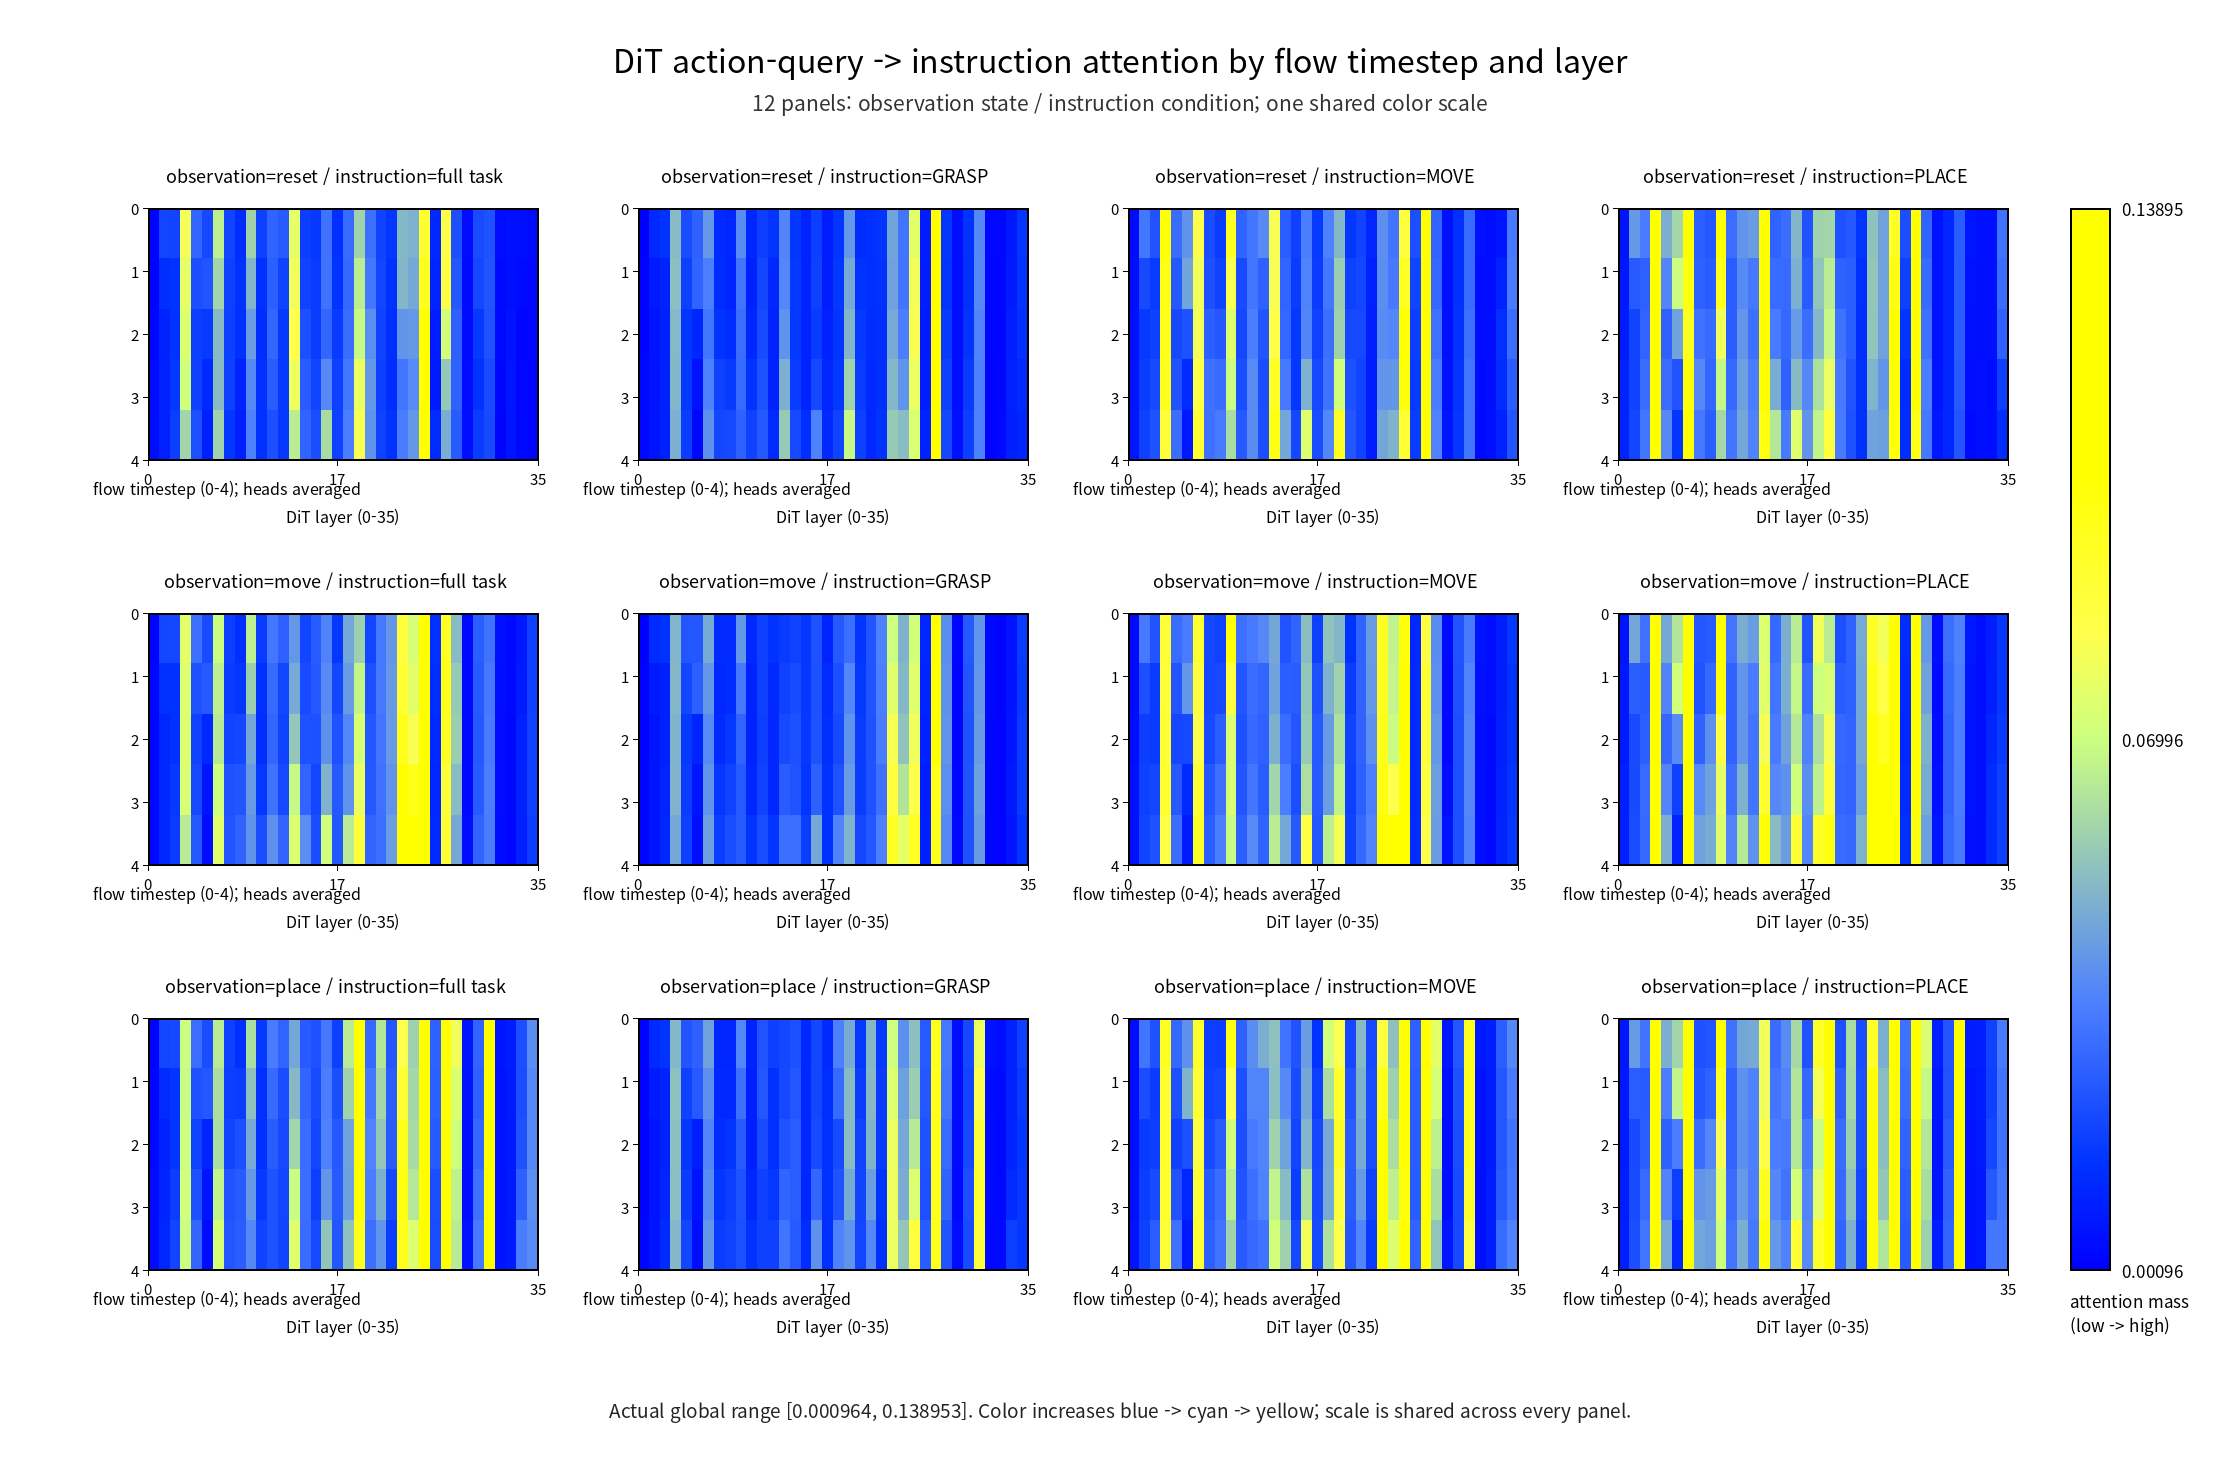
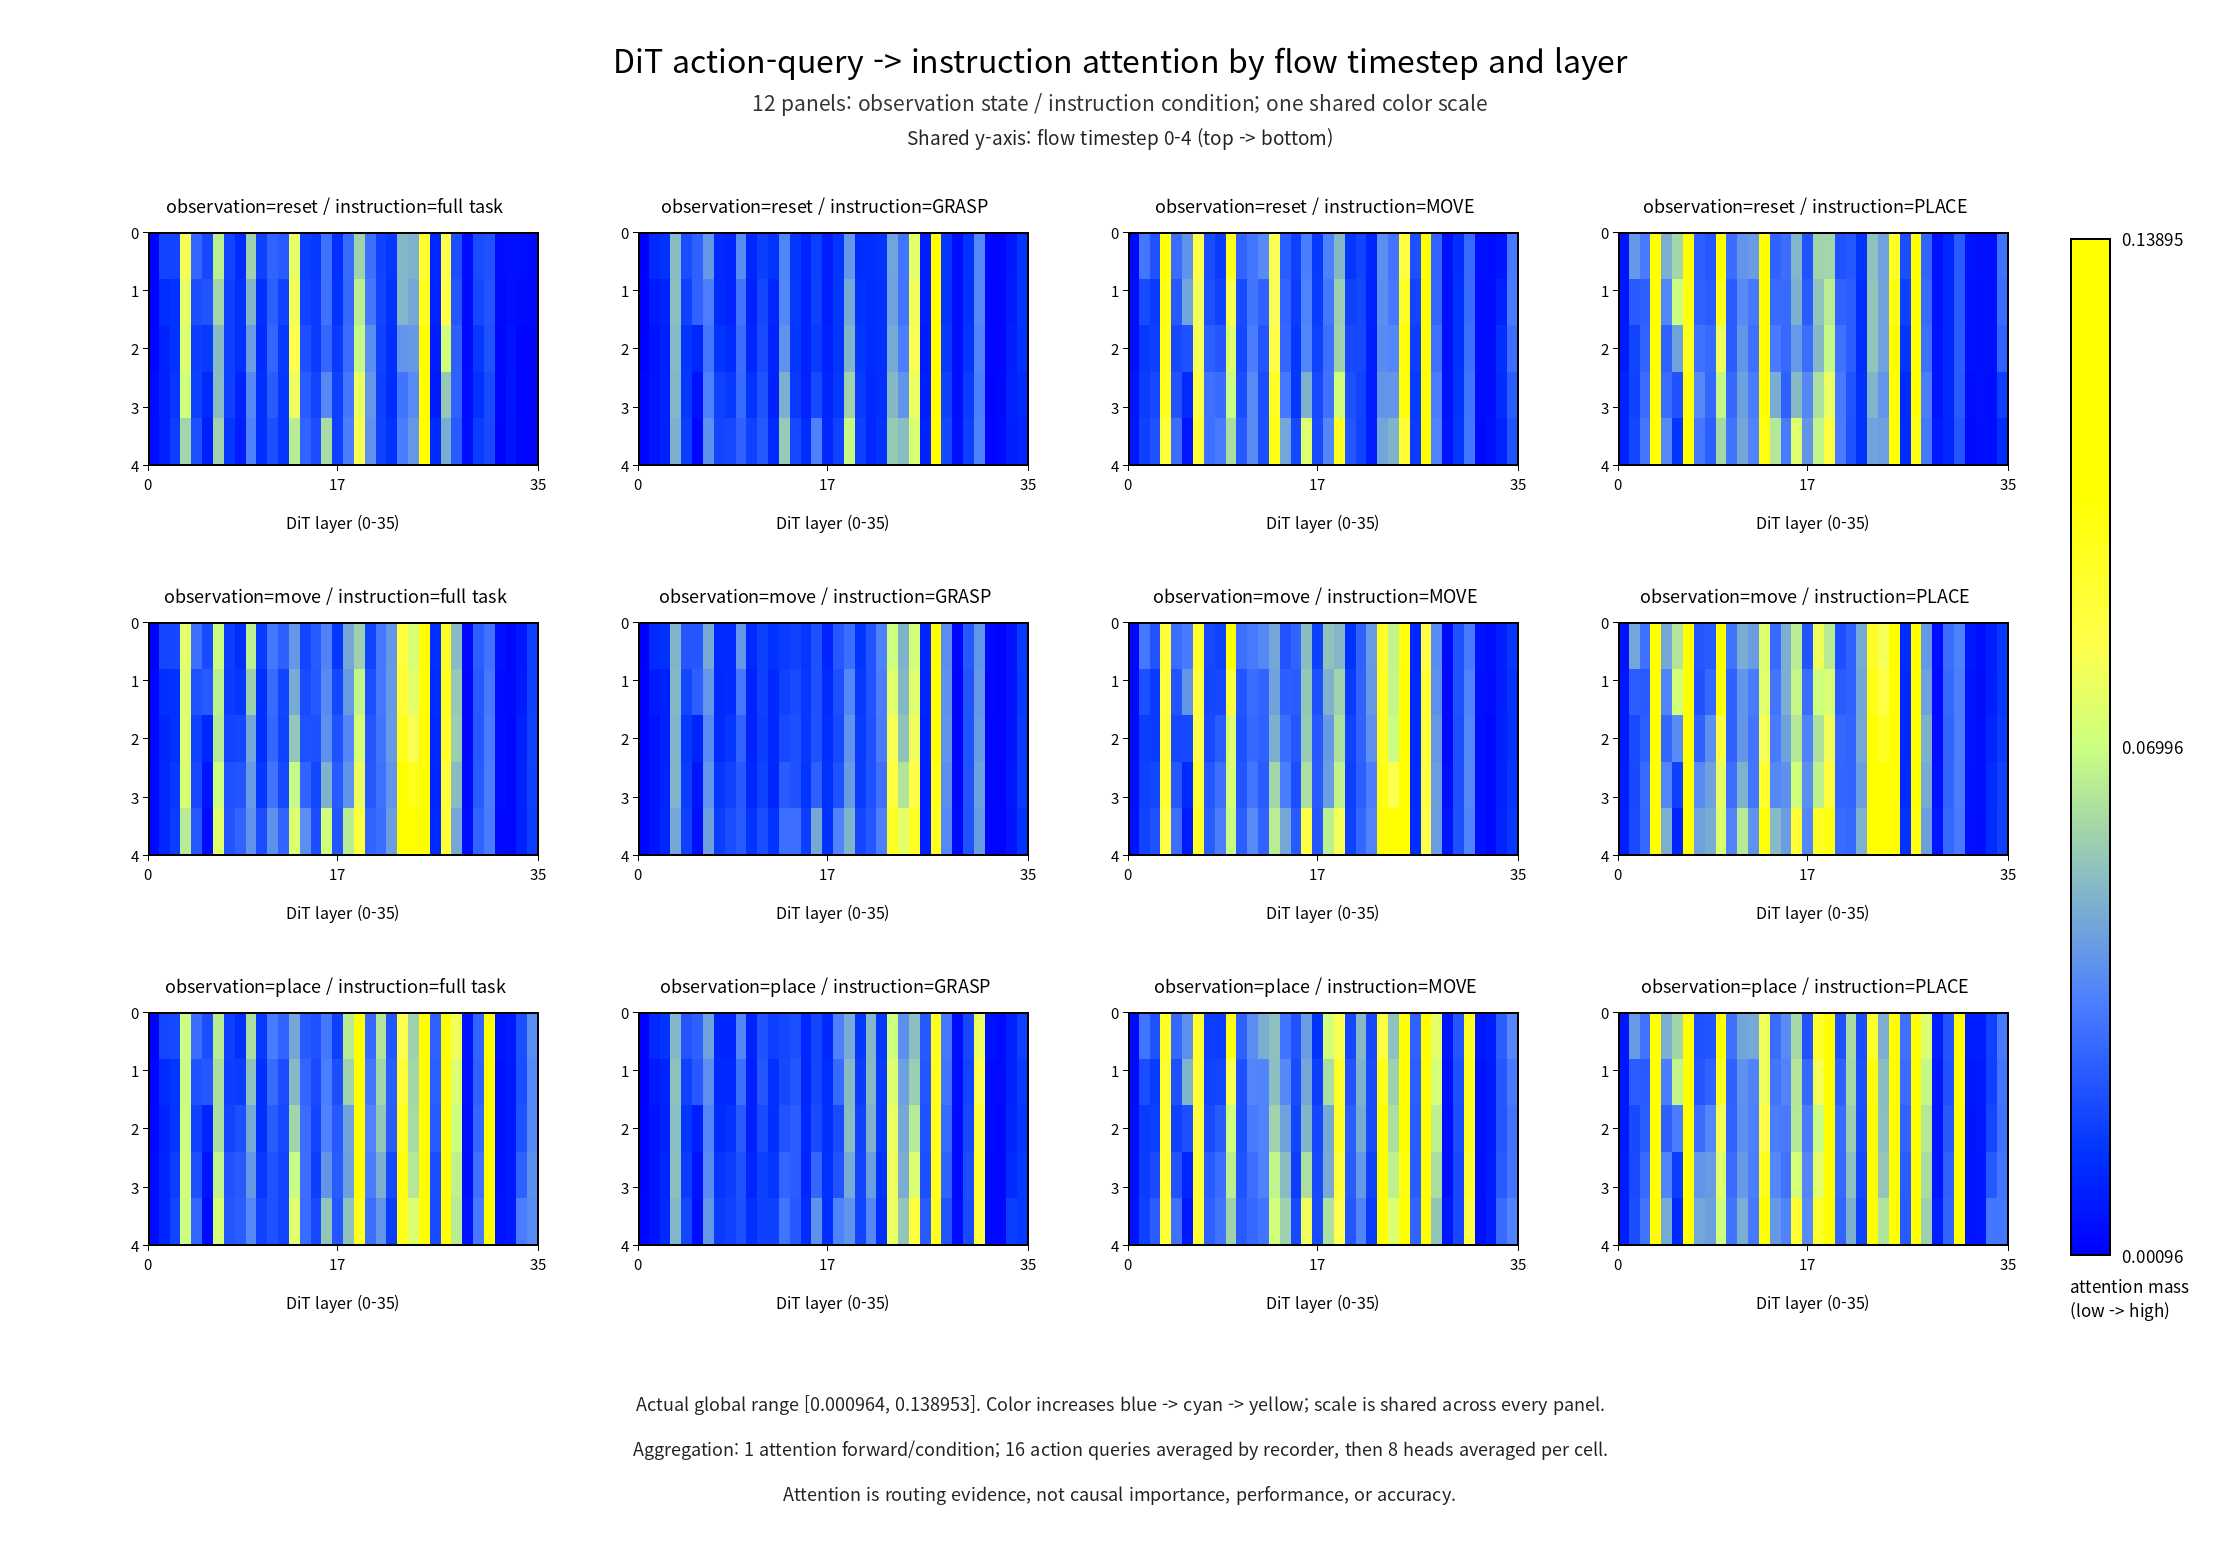
fix(experiment): finalize attention plot annotations

diff --git a/experiments/instr_attend_t_8cd8d8c0/internal_attention/analyze_internal_attention.py b/experiments/instr_attend_t_8cd8d8c0/internal_attention/analyze_internal_attention.py
@@ -19,6 +19,28 @@ LABEL_DISPLAY = {
     "skill_move": "MOVE",
     "skill_place": "PLACE",
 }
+ATTENTION_CAVEAT = (
+    "Attention is routing evidence, not causal importance, performance, or accuracy."
+)
+HEATMAP_AGGREGATION = {
+    "layer_timestep": (
+        "1 attention forward/condition; 16 action queries averaged by recorder, "
+        "then 8 heads averaged per cell."
+    ),
+    "layer_head": (
+        "1 attention forward/condition; 16 action queries averaged by recorder, "
+        "then 5 flow timesteps averaged per cell."
+    ),
+    "vlm_layer_head": (
+        "1 attention forward/condition; image-key mass summed, then instruction-query "
+        "positions averaged per cell."
+    ),
+}
+SCATTER_LABEL_LAYOUT = {
+    ("place", "correct_full"): (-12, -4, "rm"),
+    ("place", "skill_move"): (12, -18, "lm"),
+    ("place", "skill_place"): (-12, -4, "rm"),
+}
 FONT_PATHS = (
     "/usr/share/fonts/opentype/noto/NotoSansCJK-Regular.ttc",
     "/usr/share/fonts/truetype/dejavu/DejaVuSans.ttf",
@@ -184,14 +206,15 @@ def panel_heatmaps(
     path: Path,
     title: str,
     x_label: str,
-    y_label: str,
+    shared_y_caption: str,
+    aggregation_caption: str,
 ) -> None:
     panels = [reducer(record["arrays"][array_key]) for record in records]
     low = min(float(panel.min()) for panel in panels)
     high = max(float(panel.max()) for panel in panels)
-    width, height = 2240, 1460
-    grid_left, grid_top = 90, 150
-    panel_w, panel_h = 490, 405
+    width, height = 2240, 1550
+    grid_left, grid_top = 90, 180
+    panel_w, panel_h = 490, 390
     canvas = Image.new("RGB", (width, height), "white")
     draw = ImageDraw.Draw(canvas)
     draw.text((width // 2, 35), title, fill="black", font=font(32), anchor="ma")
@@ -202,12 +225,19 @@ def panel_heatmaps(
         font=font(21),
         anchor="ma",
     )
+    draw.text(
+        (width // 2, 122),
+        f"Shared y-axis: {shared_y_caption}",
+        fill="#222222",
+        font=font(19),
+        anchor="ma",
+    )
     for record, values in zip(records, panels):
         row = STATES.index(record["state"])
         col = LABELS.index(record["label"])
         x = grid_left + col * panel_w
         y = grid_top + row * panel_h
-        box = (x + 58, y + 58, x + 448, y + 310)
+        box = (x + 58, y + 52, x + 448, y + 285)
         heatmap = colorize(values, low, high).resize(
             (box[2] - box[0], box[3] - box[1]), Image.Resampling.NEAREST
         )
@@ -225,8 +255,7 @@ def panel_heatmaps(
         x_ticks = sorted(set([0, x_max // 2, x_max]))
         y_ticks = list(range(values.shape[0])) if values.shape[0] <= 8 else [0, y_max // 2, y_max]
         draw_ticks(draw, box, x_ticks, x_max, y_ticks, y_max)
-        draw.text((box[0] + (box[2] - box[0]) // 2, y + 354), x_label, fill="black", font=font(16), anchor="ma")
-        draw.text((x + 3, y + 326), y_label, fill="black", font=font(16))
+        draw.text((box[0] + (box[2] - box[0]) // 2, y + 330), x_label, fill="black", font=font(16), anchor="ma")
 
     color_left, color_top, color_right, color_bottom = 2070, grid_top + 58, 2110, grid_top + 3 * panel_h - 95
     gradient = np.linspace(high, low, color_bottom - color_top, dtype=np.float32)[:, None]
@@ -238,10 +267,24 @@ def panel_heatmaps(
     draw.text((color_right + 12, color_bottom), f"{low:.5f}", fill="black", font=font(17), anchor="lm")
     draw.text((2070, color_bottom + 18), "attention mass\n(low -> high)", fill="black", font=font(17), spacing=4)
     draw.text(
-        (width // 2, 1395),
+        (width // 2, 1390),
         f"Actual global range [{low:.6f}, {high:.6f}]. Color increases blue -> cyan -> yellow; scale is shared across every panel.",
         fill="#222222",
-        font=font(19),
+        font=font(18),
+        anchor="ma",
+    )
+    draw.text(
+        (width // 2, 1435),
+        f"Aggregation: {aggregation_caption}",
+        fill="#222222",
+        font=font(18),
+        anchor="ma",
+    )
+    draw.text(
+        (width // 2, 1480),
+        ATTENTION_CAVEAT,
+        fill="#222222",
+        font=font(18),
         anchor="ma",
     )
     canvas.save(path)
@@ -255,7 +298,8 @@ def plot_layer_timestep(records: list[dict], out: Path) -> None:
         out / "action_instruction_layer_timestep.png",
         "DiT action-query -> instruction attention by flow timestep and layer",
         "DiT layer (0-35)",
-        "flow timestep (0-4); heads averaged",
+        "flow timestep 0-4 (top -> bottom)",
+        HEATMAP_AGGREGATION["layer_timestep"],
     )
 
 
@@ -267,7 +311,8 @@ def plot_layer_head(records: list[dict], out: Path) -> None:
         out / "action_instruction_layer_head.png",
         "DiT action-query -> instruction attention by head and layer",
         "DiT layer (0-35)",
-        "attention head (0-7); timesteps averaged",
+        "attention head 0-7 (top -> bottom)",
+        HEATMAP_AGGREGATION["layer_head"],
     )
 
 
@@ -279,12 +324,13 @@ def plot_vlm(records: list[dict], out: Path) -> None:
         out / "vlm_instruction_image_layer_head.png",
         "Causal VLM instruction-query -> image-key attention by head and layer",
         "VLM layer (0-35)",
-        "attention head (0-31); instruction queries averaged",
+        "attention head 0-31 (top -> bottom)",
+        HEATMAP_AGGREGATION["vlm_layer_head"],
     )
 
 
 def plot_joint(records: list[dict], out: Path) -> None:
-    width, height = 1900, 820
+    width, height = 2020, 820
     canvas = Image.new("RGB", (width, height), "white")
     draw = ImageDraw.Draw(canvas)
     colors = {"correct_full": "#555555", "skill_grasp": "#0072B2", "skill_move": "#E69F00", "skill_place": "#009E73"}
@@ -293,14 +339,14 @@ def plot_joint(records: list[dict], out: Path) -> None:
     xmin, xmax = min(xs), max(xs)
     ymin, ymax = min(ys), max(ys)
     xmin -= 0.002
-    xmax += 0.002
+    xmax += 0.004
     ymax += 0.6
     plot_ymin = -0.5
     draw.text((width // 2, 28), "Attention routing versus counterfactual action sensitivity", fill="black", font=font(32), anchor="ma")
     draw.text((width // 2, 75), "Panels are observation states; point color is instruction condition; axes and scales are shared", fill="#333333", font=font(20), anchor="ma")
     panel_w, panel_top, panel_bottom = 535, 150, 650
     for state_index, state in enumerate(STATES):
-        left = 95 + state_index * 595
+        left = 95 + state_index * 620
         right = left + panel_w
         draw.rectangle((left, panel_top, right, panel_bottom), outline="black", width=2)
         draw.text(((left + right) // 2, panel_top - 35), f"observation state = {state}", fill="black", font=font(22), anchor="ma")
@@ -319,7 +365,10 @@ def plot_joint(records: list[dict], out: Path) -> None:
             y = panel_bottom - (record["action_effect_size"] - plot_ymin) / (ymax - plot_ymin) * (panel_bottom - panel_top)
             color = colors[record["label"]]
             draw.ellipse((x - 9, y - 9, x + 9, y + 9), fill=color, outline="black", width=1)
-            draw.text((x + 12, y - 4), LABEL_DISPLAY[record["label"]], fill="black", font=font(15), anchor="lm")
+            dx, dy, anchor = SCATTER_LABEL_LAYOUT.get(
+                (state, record["label"]), (12, -4, "lm")
+            )
+            draw.text((x + dx, y + dy), LABEL_DISPLAY[record["label"]], fill="black", font=font(15), anchor=anchor)
     draw.text((width // 2, 735), f"Mean post-softmax DiT action-query -> instruction mass; actual x range [{min(xs):.6f}, {max(xs):.6f}]", fill="black", font=font(19), anchor="ma")
     draw.text((20, 110), f"ES range [{min(ys):.3f}, {max(ys):.3f}]", fill="black", font=font(16))
     draw.text((20, 680), "y: action ES = d_means / (noise_floor / sqrt(N)); dimensionless, not attention", fill="black", font=font(18))

diff --git a/experiments/instr_attend_t_8cd8d8c0/internal_attention/test_analysis_smoke.py b/experiments/instr_attend_t_8cd8d8c0/internal_attention/test_analysis_smoke.py
@@ -11,6 +11,12 @@ from pathlib import Path
 import numpy as np
 from PIL import Image
 
+from analyze_internal_attention import (
+    ATTENTION_CAVEAT,
+    HEATMAP_AGGREGATION,
+    SCATTER_LABEL_LAYOUT,
+)
+
 STATES = ("reset", "move", "place")
 LABELS = ("correct_full", "skill_grasp", "skill_move", "skill_place")
 
@@ -102,6 +108,12 @@ def main() -> None:
         assert guide["aggregation"]["attention_samples_per_condition"] == 1
         assert guide["token_boundaries"]["skill_place"]["action_query_index_range"] == [0, 15]
         assert "attention != causal importance" in guide["caveat"]
+        assert "routing evidence" in ATTENTION_CAVEAT
+        assert "1 attention forward/condition" in HEATMAP_AGGREGATION["layer_timestep"]
+        assert "16 action queries" in HEATMAP_AGGREGATION["layer_head"]
+        assert "instruction-query positions averaged" in HEATMAP_AGGREGATION["vlm_layer_head"]
+        assert SCATTER_LABEL_LAYOUT[("place", "correct_full")] != SCATTER_LABEL_LAYOUT[("place", "skill_move")]
+        assert SCATTER_LABEL_LAYOUT[("place", "skill_place")][2] == "rm"
         expected = {
             "combined_summary.csv",
             "REPORT.ko.md",
@@ -116,6 +128,8 @@ def main() -> None:
             if name.endswith(".png"):
                 with Image.open(out / name) as image:
                     assert image.width >= 1800 and image.height >= 800, (name, image.size)
+                    if "layer_" in name:
+                        assert image.height >= 1500, (name, image.size)
         report = (out / "REPORT.ko.md").read_text(encoding="utf-8")
         for required in ("## 먼저 읽는 법", "## 축과 tensor 의미", "## 집계와 정규화", "## token 경계", "## 한계"):
             assert required in report, required
